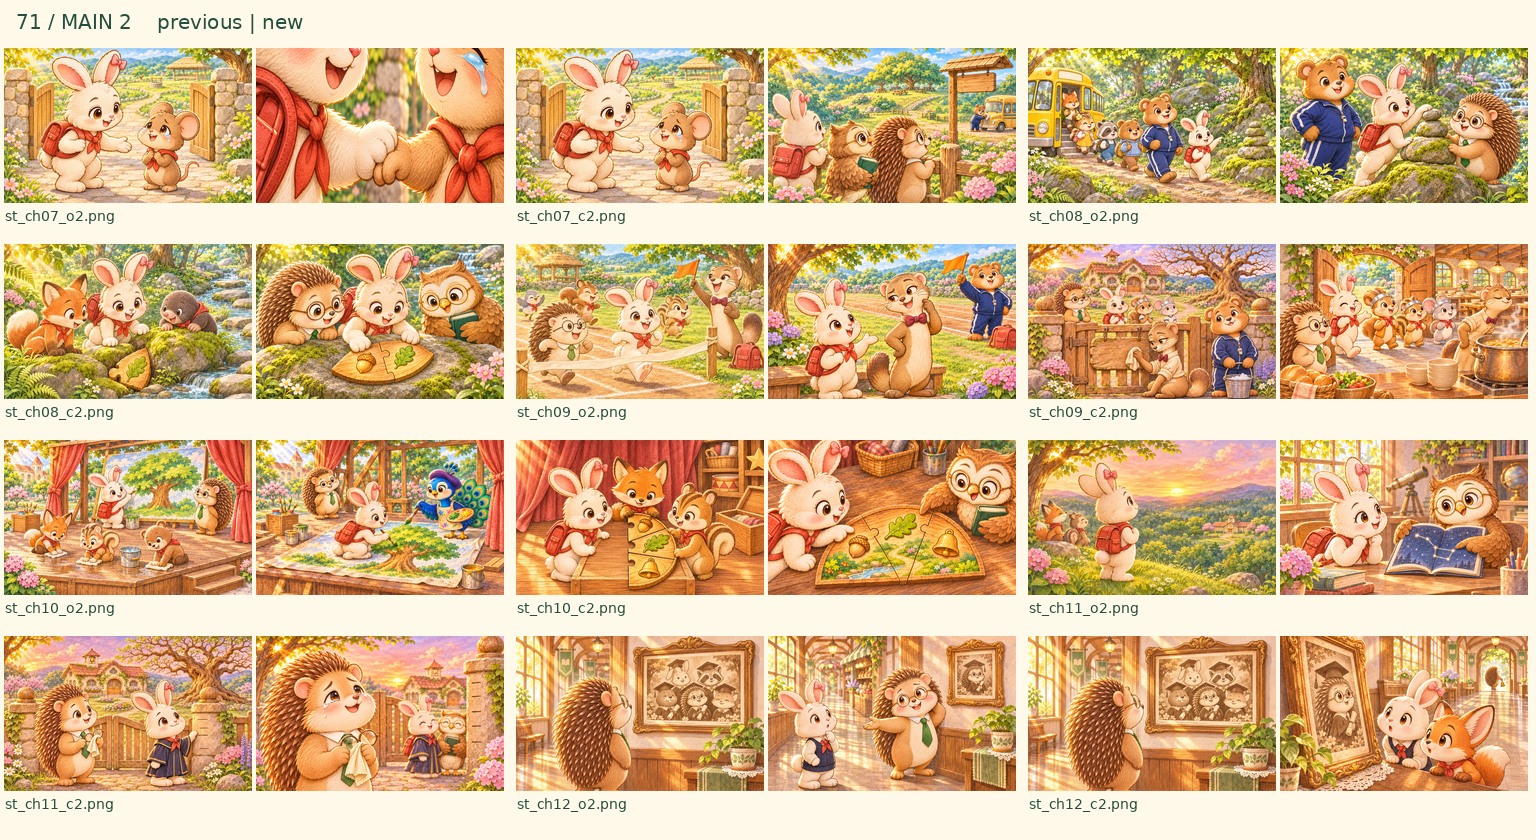
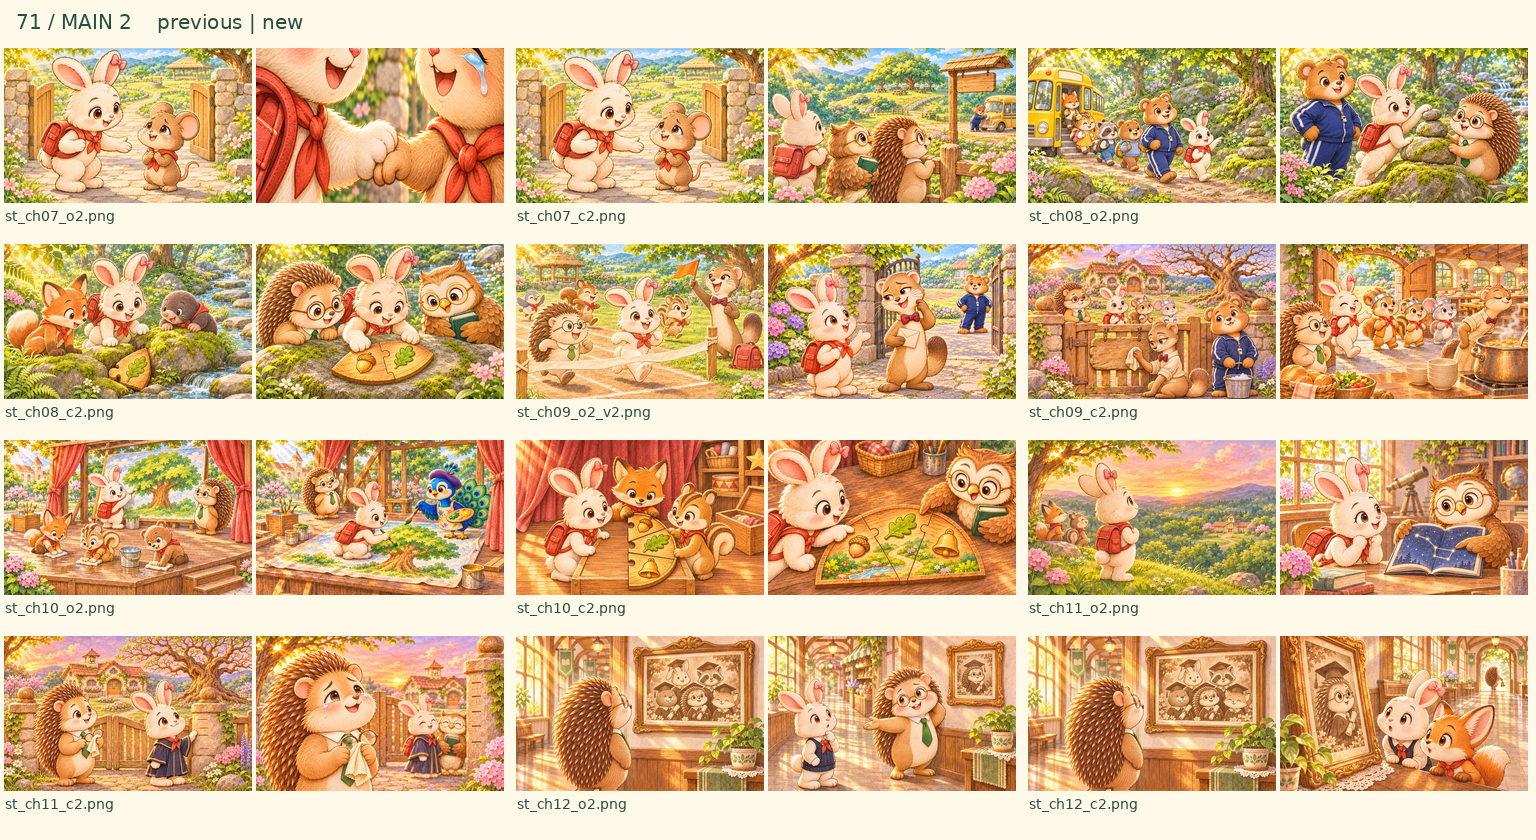
art: align second story scenes with dialogue locations and props

Changed region(s): [[0.5, 0.2786, 0.6875, 0.4952]]

diff --git a/art/71_story_more/README.md b/art/71_story_more/README.md
@@ -1,26 +1,26 @@
 | 항목 | 파일 | 확인 내용 | 결과 |
 | --- | --- | --- | --- |
-| a | 장면 71장 | 중심 48장 + 곁가지 23장. 모두 PNG 1024×640, RGB, 배경 있음. 확인 그림 5장은 긴 쪽 1536px 이하. | 확인 |
-| b | 전체 인물과 장소 | 솜이 성장별 복장과 귀 끝 분홍 리본, 교감의 안경과 초록 넥타이, 선생님들과 족제비, 참나무와 교문과 종을 참고 그림에 대조. | 육안 확인 |
+| a | 장면 71장 | 중심 48장 + 곁가지 23장. 정정한 10장은 `_v2` 최종판. 모두 PNG 1024×640, RGB, 배경 있음. 확인 그림 5장은 긴 쪽 1536px 이하. | 확인 |
+| b | 전체 인물과 장소 | 솜이 성장별 복장과 귀가 보이는 컷의 분홍 리본, 교감의 안경과 초록 넥타이, 선생님들과 족제비, 참나무와 교문과 종을 참고 그림에 대조. | 육안 확인 |
 | c | 전체 장면 | 앞 그림과 화면 거리, 시점 또는 장소를 달리함. 중심 이야기는 비교 미리보기 4장으로 확인. | 육안 확인 |
 | e | 전체 장면 | 글자, 숫자, 로고, 대사 기호와 교장 선생님을 넣지 않음. 종이와 간판은 빈 면이나 그림 무늬. 나무패는 해당 장면 뒤 절반에 언급된 경우만 그림. | 육안 확인 |
 | d | `st_ch01_o2.png` | ST.o0 뒤 절반: 고칠 책상을 바라보며 솜이를 달래는 고슴도치 | 대사 대조 |
 | d | `st_ch01_c2.png` | ST.c0 뒤 절반: 내일 친구도 데려오겠다고 환하게 웃는 어린 솜이 | 대사 대조 |
 | d | `st_ch02_o2.png` | ST.o1 뒤 절반: 밤 교문에 내려앉아 돌아온 부엉이 선생님 | 대사 대조 |
 | d | `st_ch02_c2.png` | ST.c1 뒤 절반: 혼자 종을 쳤던 일을 이야기하는 부엉이와 고슴도치 | 대사 대조 |
-| d | `st_ch03_o2.png` | ST.o2 뒤 절반: 고친 책상을 자랑하는 솜이 앞에서 머쓱해진 족제비 | 대사 대조 |
-| d | `st_ch03_c2.png` | ST.c2 뒤 절반: 급식실 쪽을 묻는 족제비와 안내하는 고슴도치 | 대사 대조 |
+| d | `st_ch03_o2_v2.png` | ST.o2 뒤 절반: 고친 책상을 자랑하는 솜이 앞에서 머쓱해진 족제비 | 대사 대조 |
+| d | `st_ch03_c2_v2.png` | ST.c2 뒤 절반: 급식실 쪽을 묻는 족제비와 안내하는 고슴도치 | 대사 대조 |
 | d | `st_ch04_o2.png` | ST.o3 뒤 절반: 학교가 닫힐까 걱정하는 솜이를 다독이는 고슴도치 | 대사 대조 |
 | d | `st_ch04_c2.png` | ST.c3 뒤 절반: 도장을 내려놓고 급식 초대를 듣는 황새 장학사 | 대사 대조 |
 | d | `st_ch05_o2.png` | ST.o4 뒤 절반: 동생을 달래 주겠다고 말하는 형님반 솜이 | 대사 대조 |
 | d | `st_ch05_c2.png` | ST.c4 뒤 절반: 첫 나무패의 맞물리는 가장자리를 살펴보는 솜이 | 대사 대조 |
-| d | `st_ch06_o2.png` | ST.o5 뒤 절반: 첫 나무패의 가장자리를 세어 보는 부엉이와 고슴도치 | 대사 대조 |
-| d | `st_ch06_c2.png` | ST.c5 뒤 절반: 새 전학생을 기다릴 생각에 설레는 초등학생 솜이 | 대사 대조 |
+| d | `st_ch06_o2_v2.png` | ST.o5 뒤 절반: 첫 나무패의 가장자리를 세어 보는 부엉이와 고슴도치 | 대사 대조 |
+| d | `st_ch06_c2_v2.png` | ST.c5 뒤 절반: 새 전학생을 기다릴 생각에 설레는 초등학생 솜이 | 대사 대조 |
 | d | `st_ch07_o2.png` | ST.o6 뒤 절반: 전학생의 작은 손을 잡고 교문 안으로 이끄는 솜이 | 대사 대조 |
 | d | `st_ch07_c2.png` | ST.c6 뒤 절반: 뒷산 옛 소풍 터 이야기를 듣는 솜이 | 대사 대조 |
 | d | `st_ch08_o2.png` | ST.o7 뒤 절반: 옛 돌탑 위에 조약돌 하나를 더 올리는 솜이 | 대사 대조 |
 | d | `st_ch08_c2.png` | ST.c7 뒤 절반: 첫 조각과 둘째 조각이 딱 맞물리는 순간 | 대사 대조 |
-| d | `st_ch09_o2.png` | ST.o8 뒤 절반: 옥상 운동장 이야기에 머쓱해진 족제비 원장 | 대사 대조 |
+| d | `st_ch09_o2_v2.png` | ST.o8 뒤 절반: 옥상 운동장 이야기에 머쓱해진 족제비 원장 | 대사 대조 |
 | d | `st_ch09_c2.png` | ST.c8 뒤 절반: 학원 친구들에게 잔치 급식 길을 안내하는 솜이 | 대사 대조 |
 | d | `st_ch10_o2.png` | ST.o9 뒤 절반: 학예회 배경에 잎이 무성한 참나무를 그리는 솜이 | 대사 대조 |
 | d | `st_ch10_c2.png` | ST.c9 뒤 절반: 세 나무패의 선이 이어져 반쪽 지도가 드러나는 순간 | 대사 대조 |
@@ -32,22 +32,22 @@
 | d | `st_ch13_c2.png` | ST.c12 뒤 절반: 정체를 알아낸 아이들을 향해 안경을 닦으며 웃는 고슴도치 | 대사 대조 |
 | d | `st_ch14_o2.png` | ST.o13 뒤 절반: 종 줄을 잡고 혼자 지켰던 날들을 이야기하는 고슴도치 | 대사 대조 |
 | d | `st_ch14_c2.png` | ST.c13 뒤 절반: 종을 치려는 아이들의 줄을 보고 미소 짓는 고슴도치 | 대사 대조 |
-| d | `st_ch15_o2.png` | ST.o14 뒤 절반: 규정대로 자기 도시락을 펼치는 황새 장학사 | 대사 대조 |
+| d | `st_ch15_o2_v2.png` | ST.o14 뒤 절반: 교문에서 자기 도시락 보따리를 보여 주며 입장을 묻는 황새 | 대사 대조 |
 | d | `st_ch15_c2.png` | ST.c14 뒤 절반: 심사가 끝난 뒤 급식 국을 맛보려는 황새 | 대사 대조 |
 | d | `st_ch16_o2.png` | ST.o15 뒤 절반: 빈 교실에 남은 족제비를 걱정하는 고슴도치 | 대사 대조 |
-| d | `st_ch16_c2.png` | ST.c15 뒤 절반: 기숙사 창 불빛을 부러운 듯 올려다보는 족제비 | 대사 대조 |
+| d | `st_ch16_c2_v2.png` | ST.c15 뒤 절반: 기숙사 창 불빛을 부러운 듯 올려다보는 족제비 | 대사 대조 |
 | d | `st_ch17_o2.png` | ST.o16 뒤 절반: 창턱 아래 숨어 공부하던 세 아이를 발견한 솜이 | 대사 대조 |
 | d | `st_ch17_c2.png` | ST.c16 뒤 절반: 들어온 아이들에게 빈자리를 권하는 솜이 | 대사 대조 |
 | d | `st_ch18_o2.png` | ST.o17 뒤 절반: 보따리를 안은 족제비를 기다려 주는 선생님들 | 대사 대조 |
-| d | `st_ch18_c2.png` | ST.c17 뒤 절반: 돌아온 족제비에게 오래 간직한 꿀단지를 건네는 곰 | 대사 대조 |
+| d | `st_ch18_c2_v2.png` | ST.c17 뒤 절반: 돌아온 족제비에게 오래 간직한 꿀단지를 건네는 곰 | 대사 대조 |
 | d | `st_ch19_o2.png` | ST.o18 뒤 절반: 나무패 길 끝과 창밖 참나무가 포개져 보이는 순간 | 대사 대조 |
 | d | `st_ch19_c2.png` | ST.c18 뒤 절반: 함께 뿌리 문을 열겠다고 약속하는 졸업생 솜이 | 대사 대조 |
 | d | `st_ch20_o2.png` | ST.o19 뒤 절반: 솜이가 떠난 빈 교문 자리를 바라보는 고슴도치 | 대사 대조 |
 | d | `st_ch20_c2.png` | ST.c19 뒤 절반: 솜이의 편지에 답장을 준비하는 고슴도치 | 대사 대조 |
 | d | `st_ch21_o2.png` | ST.o20 뒤 절반: 새내기들을 먼저 맞이하겠다고 나서는 솜이 | 대사 대조 |
 | d | `st_ch21_c2.png` | ST.c20 뒤 절반: 당장 잘하지 못해도 다시 가 보려 마음먹는 솜이 | 대사 대조 |
-| d | `st_ch22_o2.png` | ST.o21 뒤 절반: 한 명이던 해 출석부를 함께 펼치는 솜이와 고슴도치 | 대사 대조 |
-| d | `st_ch22_c2.png` | ST.c21 뒤 절반: 노랫소리로 문을 열자고 제안하는 솜이 | 대사 대조 |
+| d | `st_ch22_o2_v2.png` | ST.o21 뒤 절반: 참나무 아래에서 한 명이던 해의 출석부를 펼쳐 보는 솜이와 고슴도치 | 대사 대조 |
+| d | `st_ch22_c2_v2.png` | ST.c21 뒤 절반: 강당 연구 발표에서 노랫소리로 문을 열자고 제안하는 솜이 | 대사 대조 |
 | d | `st_ch23_o2.png` | ST.o22 뒤 절반: 교가를 알려 주려고 박자를 잡는 고슴도치 | 대사 대조 |
 | d | `st_ch23_c2.png` | ST.c22 뒤 절반: 뿌리 속 상자에서 마지막 조각과 편지를 꺼내는 순간 | 대사 대조 |
 | d | `st_ch24_o2.png` | ST.o23 뒤 절반: 아직 편지 뒷장을 읽지 않겠다고 약속하는 교생 솜이 | 대사 대조 |
